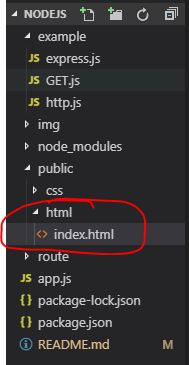
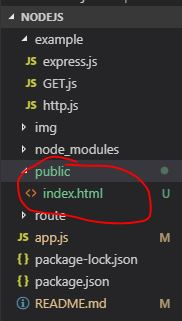
img

diff --git a/app.js b/app.js
@@ -1,12 +1,15 @@
 var express = require('express');
 var app = express();
-var url = require('url');
+
+app.set('view engine', 'ejs');
+app.set('views', path.join(__dirname, 'public'));
+app.engine('html', require('ejs').renderFile);
+
+
+
 
 app.get('/',function(req,res){
-    var _url = req.url;
-    var queryData = url.parse(_url, true).query;
-
-    res.send("id : " + queryData.id +" password : "+ queryData.password);
+    res.render("index.html")
 });
 
 app.listen(3000, function(){

diff --git a/public/index.html b/public/index.html
@@ -1,0 +1,11 @@
+<html lang="en">
+<head>
+    <meta charset="UTF-8">
+    <meta name="viewport" content="width=device-width, initial-scale=1.0">
+    <meta http-equiv="X-UA-Compatible" content="ie=edge">
+    <title>Document</title>
+</head>
+<body>
+    <h1>hello, world</h1>
+</body>
+</html>

diff --git a/README.md b/README.md
@@ -130,13 +130,17 @@ app.listen(3000, function(){
 
 제가 html을 잘하지 않기때문에 여기서는 html을 다루지 않겠습니다. 여기선 nodejs에서 사용되는 템플릿이 무엇이있는지 사용방법이나 프론트를 띄워주는 법을 다루도록 하겠습니다. 
 
-우선 nodejs/public/html 에 index.html을 만들어줍니다.
+우선 nodejs/public 에 index.html을 만들어줍니다.
 
 ![createindex](<https://github.com/sera9786/nodejs/blob/master/img/createindex.JPG>)
 
 html파일이 생성되었으면 기본 구조를 알아야합니다. 우선 doc를 치고 엔터를 누르면 기본적인 구조가 생성됩니다. doc는 document의 줄임말이며 html파일을 생성할때 간편하게 구조를 빠르게 생성할수있습니다.
 
 ![doc](<https://github.com/sera9786/nodejs/blob/master/img/doc.JPG>)
+
+html을 기본적으로 할수있다고 생각하고 설명은 건너뛰겠습니다. 저희는 "hello,world"를 보여주는 정적파일을 rendering 해줄겁니다. 
+
+다시 app.js로 넘어와 몇가지 모듈을 추가해줍니다.
 
 ## http
 
